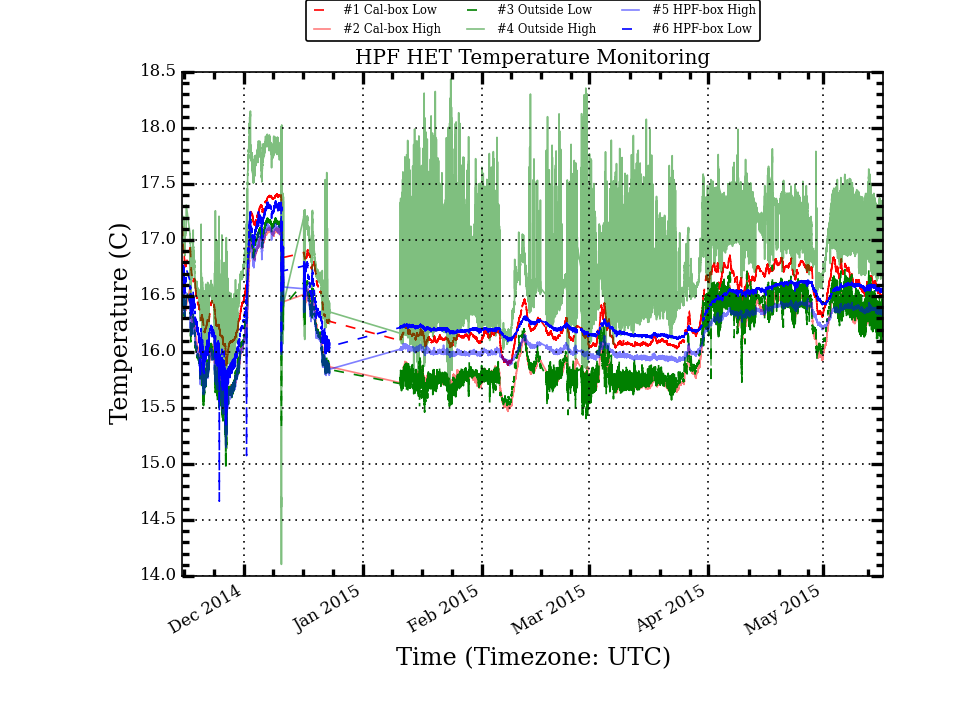
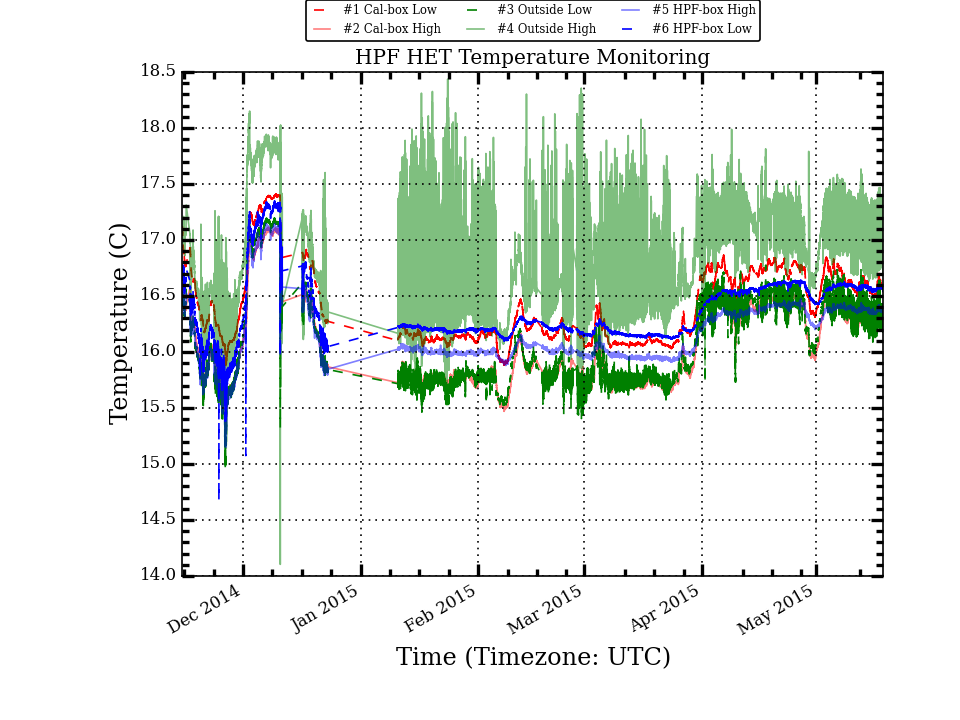
Update HPF Temp Plots

diff --git a/research/hpf_temps/plots/LakeShoreLogTotal_stats.html b/research/hpf_temps/plots/LakeShoreLogTotal_stats.html
@@ -10,54 +10,54 @@
  </TR>
  <TR>
   <TD>Cal_Low</TD>
-  <TD>16.409</TD>
-  <TD>0.347</TD>
-  <TD>16.280</TD>
+  <TD>16.411</TD>
+  <TD>0.345</TD>
+  <TD>16.286</TD>
   <TD>17.410</TD>
   <TD>15.840</TD>
   <TD>1.570</TD>
  </TR>
  <TR>
   <TD>Cal_High</TD>
-  <TD>16.058</TD>
-  <TD>0.371</TD>
-  <TD>15.902</TD>
+  <TD>16.061</TD>
+  <TD>0.369</TD>
+  <TD>15.911</TD>
   <TD>17.114</TD>
   <TD>15.410</TD>
   <TD>1.704</TD>
  </TR>
  <TR>
   <TD>Out_Low</TD>
-  <TD>16.087</TD>
-  <TD>0.409</TD>
-  <TD>15.916</TD>
+  <TD>16.091</TD>
+  <TD>0.408</TD>
+  <TD>15.927</TD>
   <TD>17.201</TD>
   <TD>14.942</TD>
   <TD>2.259</TD>
  </TR>
  <TR>
   <TD>Out_High</TD>
-  <TD>16.820</TD>
-  <TD>0.466</TD>
-  <TD>16.733</TD>
+  <TD>16.825</TD>
+  <TD>0.465</TD>
+  <TD>16.746</TD>
   <TD>18.436</TD>
   <TD>14.104</TD>
   <TD>4.332</TD>
  </TR>
  <TR>
   <TD>HPF_High</TD>
-  <TD>16.163</TD>
-  <TD>0.292</TD>
-  <TD>16.038</TD>
+  <TD>16.166</TD>
+  <TD>0.291</TD>
+  <TD>16.040</TD>
   <TD>17.147</TD>
   <TD>15.149</TD>
   <TD>1.998</TD>
  </TR>
  <TR>
   <TD>HPF_Low</TD>
-  <TD>16.361</TD>
-  <TD>0.290</TD>
-  <TD>16.233</TD>
+  <TD>16.364</TD>
+  <TD>0.289</TD>
+  <TD>16.235</TD>
   <TD>17.356</TD>
   <TD>14.668</TD>
   <TD>2.688</TD>
